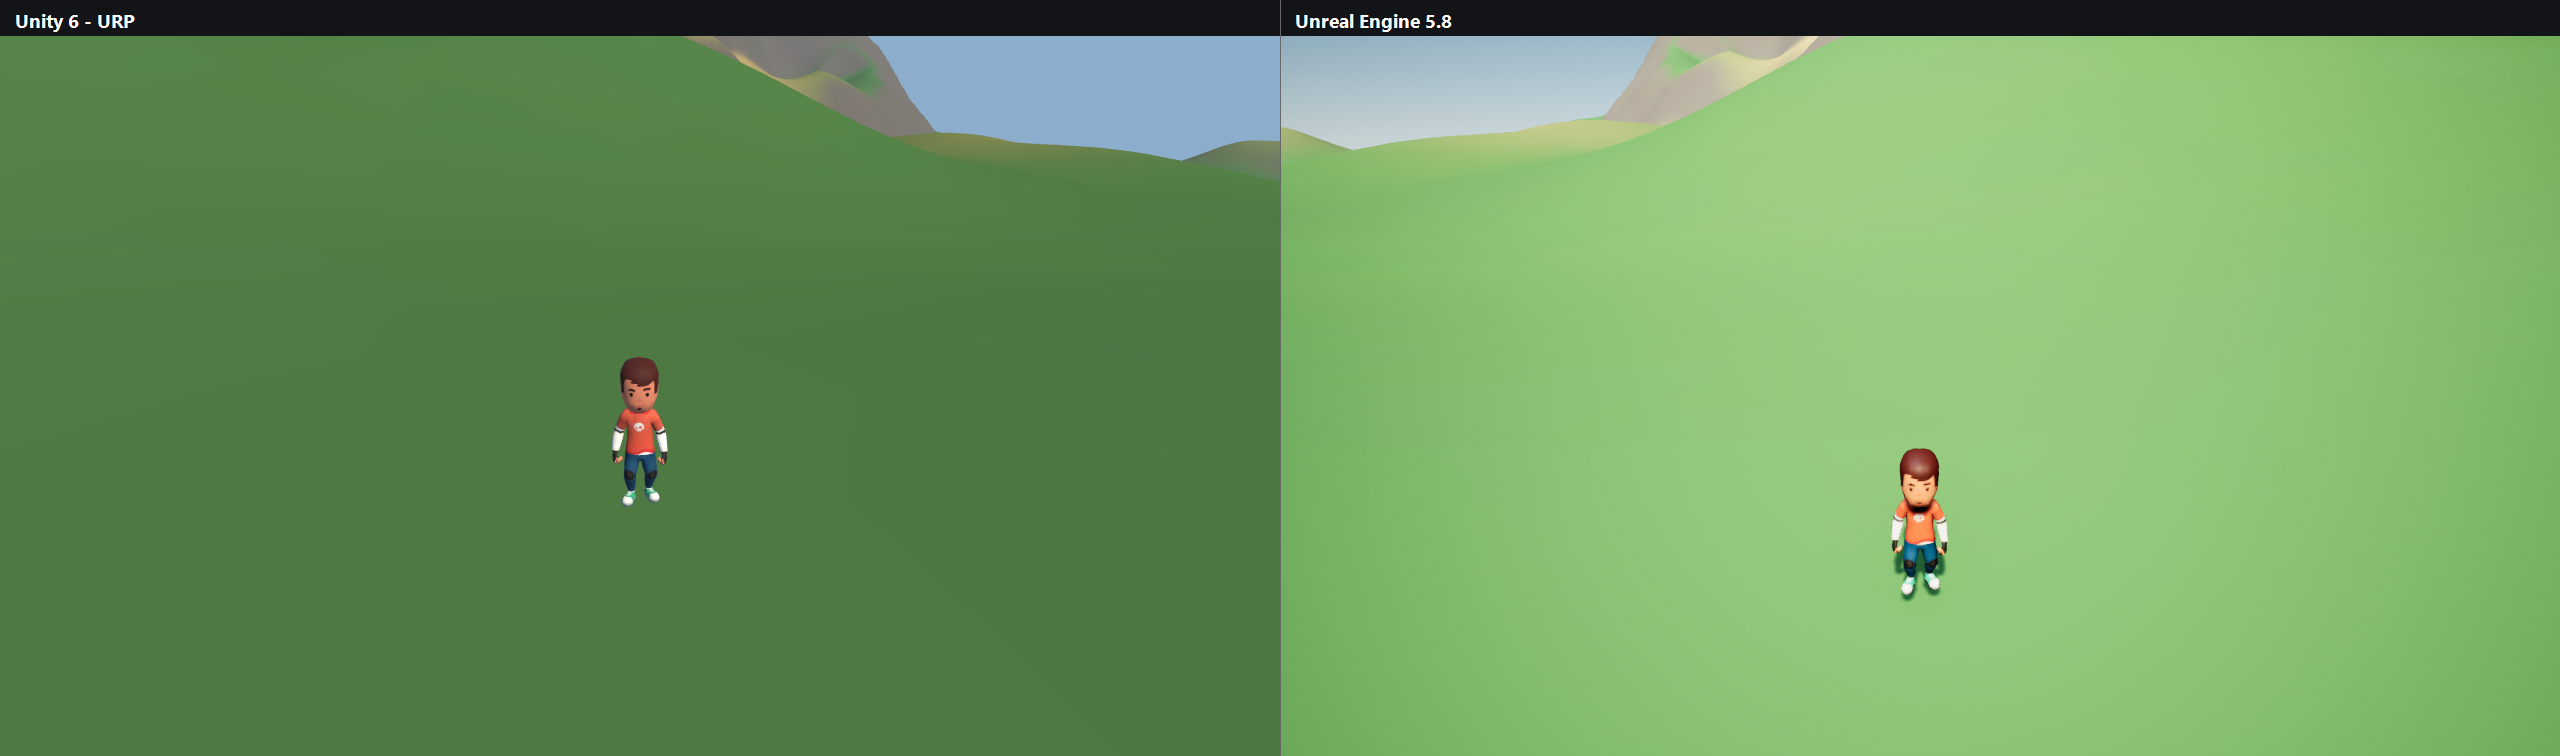
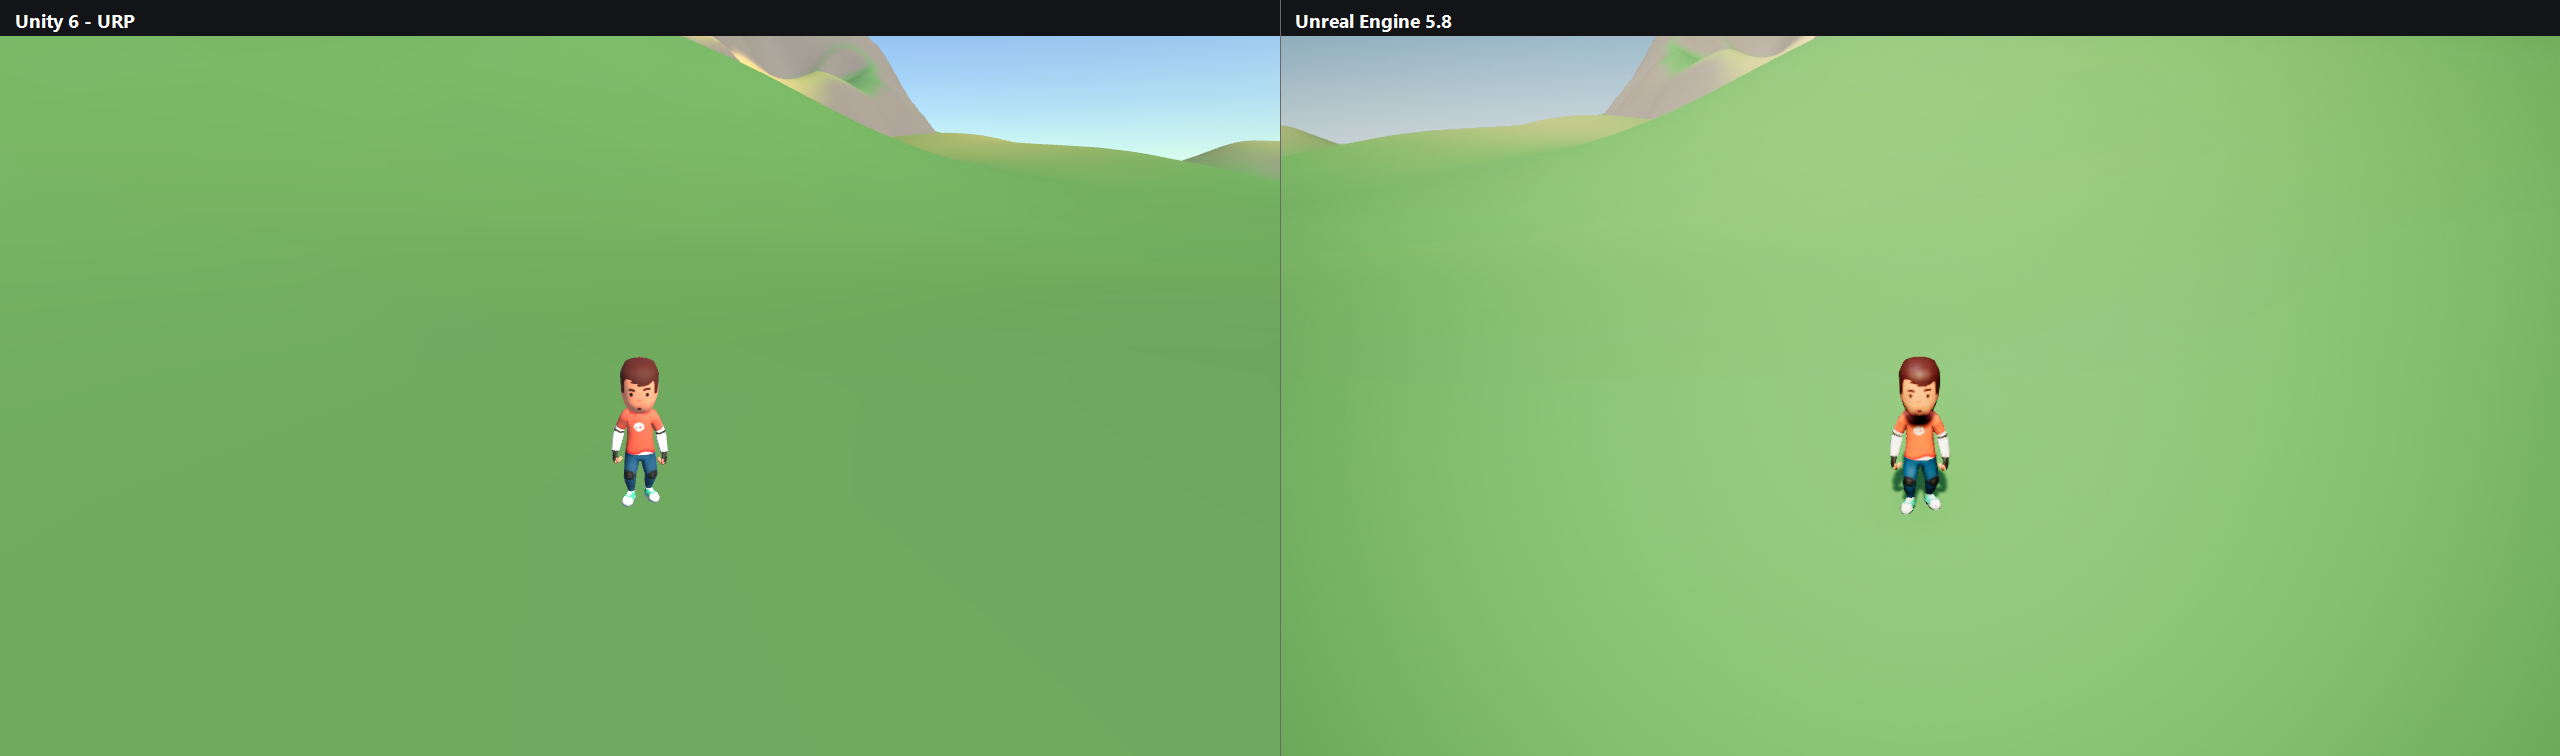
feat(demo): 对齐双端对照机位/天空并量化亮度差
- unity: 程序化天空；按 UE 亮度调整太阳/环境光/雾；固定机位按脚底计算
- ue5: 相机/角色改为按地面高度定位（补偿胶囊中心偏移），太阳转到正面受光；
  移除会压黑的手动曝光，保留自动曝光
- scripts: demo-compare 输出两帧平均亮度差
- docs: 对照图更新，曝光/tonemapping 差异记录

diff --git a/clients/unity/UnityGameClient/Assets/Editor/CaptureDemoShot.cs b/clients/unity/UnityGameClient/Assets/Editor/CaptureDemoShot.cs
@@ -1,4 +1,4 @@
-using System;
+using System;
 using System.IO;
 using AI003.World;
 using UnityEditor;
@@ -56,16 +56,25 @@ namespace AI003.EditorTools
             var sun = sunObject.AddComponent<Light>();
             sun.type = LightType.Directional;
             sun.color = new Color(1f, 0.95f, 0.86f);
-            sun.intensity = 1.25f;
+            sun.intensity = 2.6f;
 
             RenderSettings.ambientMode = AmbientMode.Flat;
-            RenderSettings.ambientLight = new Color(0.42f, 0.48f, 0.56f);
+            RenderSettings.ambientLight = new Color(0.64f, 0.69f, 0.76f);
             RenderSettings.fog = true;
             RenderSettings.fogMode = FogMode.Linear;
-            RenderSettings.fogColor = new Color(0.62f, 0.71f, 0.80f);
+            RenderSettings.fogColor = new Color(0.70f, 0.77f, 0.85f);
             RenderSettings.fogStartDistance = 240f;
             RenderSettings.fogEndDistance = 1900f;
-            RenderSettings.skybox = null;
+
+            // Procedural skybox so both engines show a blue gradient instead of
+            // Unity's previous flat clear colour.
+            var skybox = new Material(Shader.Find("Skybox/Procedural"));
+            skybox.SetFloat("_SunDisk", 2f);
+            skybox.SetFloat("_AtmosphereThickness", 1f);
+            skybox.SetColor("_SkyTint", new Color(0.5f, 0.6f, 0.7f));
+            skybox.SetColor("_GroundColor", new Color(0.35f, 0.4f, 0.45f));
+            skybox.SetFloat("_Exposure", 1.7f);
+            RenderSettings.skybox = skybox;
 
             GameObject prefab = Resources.Load<GameObject>(CharacterPrefab);
             if (prefab == null)
@@ -91,8 +100,7 @@ namespace AI003.EditorTools
             camera.fieldOfView = 62f;
             camera.nearClipPlane = 0.15f;
             camera.farClipPlane = 6000f;
-            camera.clearFlags = CameraClearFlags.SolidColor;
-            camera.backgroundColor = new Color(0.55f, 0.68f, 0.80f);
+            camera.clearFlags = CameraClearFlags.Skybox;
             camera.transform.position = data.Spawn + new Vector3(0f, 3.2f, -6f);
             camera.transform.LookAt(data.Spawn + new Vector3(0f, 1.2f, 0f));
 
@@ -120,3 +128,4 @@ namespace AI003.EditorTools
         }
     }
 }
+

diff --git a/clients/ue5/UE5GameClient/Source/UE5GameClient/World/WorldGameMode.cpp b/clients/ue5/UE5GameClient/Source/UE5GameClient/World/WorldGameMode.cpp
@@ -1,6 +1,7 @@
 #include "World/WorldGameMode.h"
 
 #include "Camera/CameraActor.h"
+#include "Camera/CameraComponent.h"
 #include "Components/DirectionalLightComponent.h"
 #include "Components/CapsuleComponent.h"
 #include "Components/ExponentialHeightFogComponent.h"
@@ -187,11 +188,13 @@ void AWorldGameMode::BeginDemoShot()
 		return;
 	}
 
-	// Match the Unity capture: character at spawn, facing the demo camera,
-	// with the sun rotated to light that side.
+	// Match the Unity capture exactly: Unity places the avatar by its feet, while
+	// UE's actor origin is the capsule centre, so lift by half the capsule height.
+	const FVector Ground = WorldData.IsValid() ? WorldData->SpawnUE() * 100.f : SpawnLocation;
+	const FVector FeetCenter = Ground + FVector(0.f, 0.f, 96.f);
 	if (AWorldCharacter* Character = Cast<AWorldCharacter>(UGameplayStatics::GetPlayerPawn(this, 0)))
 	{
-		Character->SetActorLocation(SpawnLocation);
+		Character->SetActorLocation(FeetCenter);
 		Character->SetActorRotation(FRotator(0.f, 270.f, 0.f));
 	}
 
@@ -207,8 +210,8 @@ void AWorldGameMode::BeginDemoShot()
 		}
 	}
 
-	const FVector CameraLocation = SpawnLocation + FVector(0.f, -600.f, 320.f);
-	const FVector LookAt = SpawnLocation + FVector(0.f, 0.f, 120.f);
+	const FVector CameraLocation = Ground + FVector(0.f, -600.f, 320.f);
+	const FVector LookAt = Ground + FVector(0.f, 0.f, 120.f);
 	const FRotator CameraRotation = (LookAt - CameraLocation).Rotation();
 
 	ACameraActor* Camera = World->SpawnActor<ACameraActor>(CameraLocation, CameraRotation);

diff --git a/README.md b/README.md
@@ -59,13 +59,14 @@
 ```
 
 固定相机（出生点后退 6 m、抬高 3.2 m，看向角色胸口，FOV 62）、同一世界、同一角色、
-同一朝向，Unity 用批处理离屏渲染、UE 用 `-AI003DemoShot`，再合成
+同一朝向、同样的程序化天空；Unity 用批处理离屏渲染、UE 用 `-AI003DemoShot`，再合成
 [docs/images/demo-compare.png](docs/images/demo-compare.png)。
 
 ![Unity vs UE5](docs/images/demo-compare.png)
 
-当前曝光/色调/雾仍有差异（Unity 偏暗、UE 偏亮），已在"已知差异"中跟踪；机位、角色、
-地形形状已经可以逐像素对照。
+脚本会打印两帧的平均亮度（当前约 `Unity 133 / UE 152`，差 ~13%），亮度差来自
+tonemapping 与曝光策略不同；机位、角色、地形轮廓与天空已经对齐，剩余差异记录在
+"已知差异"中。
 
 ## 已实现的技术点
 
@@ -359,7 +360,7 @@ Restricted，`.cmd` 会自动带 `-ExecutionPolicy Bypass`）。
 | --- | --- | --- |
 | 离线冻结 | 离线玩家不可攻击、复活计时暂停，重连后继续 | 离线期间仍推进复活/冷却，或直接判负 |
 | 世界同步身份 | 大世界的 `join` 仍以会话 id 记玩家，重连会新建 | 世界玩家也改用 `clientId` 持久身份 |
-| 双端画面统一 | 已有 `demo-compare` 固定机位/角色；曝光、色调、雾仍不同 | 对齐曝光/色调/雾/天空，做像素级差异检查 || 指标回归 | `/demo` 与 `demo-scenario` 可手工跑 | 纳入 `smoke-all`/CI，保存基线并比较 |
+| 双端画面统一 | 机位/角色/天空已对齐；仍有 ~13% 亮度差与 tonemapping 色调差 | 固定曝光 + 统一 tonemapping/色彩空间 || 指标回归 | `/demo` 与 `demo-scenario` 可手工跑 | 纳入 `smoke-all`/CI，保存基线并比较 |
 | 预测范围 | 只预测位置/朝向；血量、冷却、命中仍等服务器帧 | 命中/受击也做预测 + 视觉反馈 |
 | 预测与分离 | 预测不含角色间分离，贴身推挤时校正次数偏高 | 在预测步进里加入确定性的角色分离 |
 | 竞技场表现 | 有围栏、前冲、伤害数字、倒地，但围栏无碰撞、非正式场景 | 独立竞技场场景与正式特效 |
